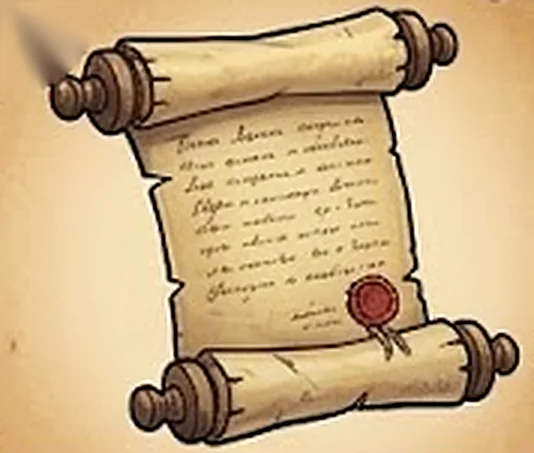
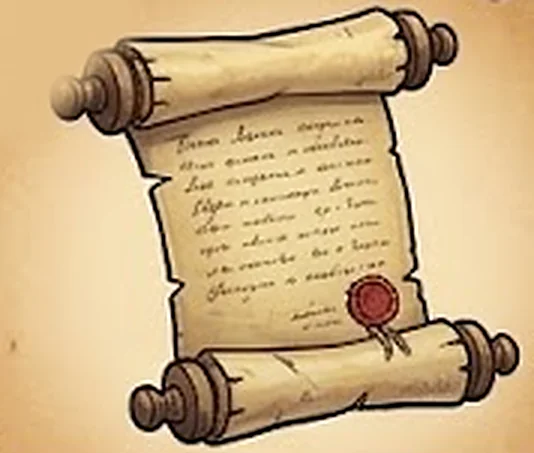
Add the secret token bonus (opens when all 30 finds are found) and clean the number badges off the item art
Claude-Session: https://claude.ai/code/session_01MECZjGJdFPh6sMPZ3fVR1g

Changed region(s): [[0.0, 0.0, 0.2697, 0.2781]]

diff --git a/src/game/finds.ts b/src/game/finds.ts
@@ -9,7 +9,7 @@
 
 export type FindKind = 'note' | 'book' | 'keepsake';
 export type PaperKind = 'leaf' | 'journal' | 'letter';
-export type KeepsakeIcon = 'key' | 'locket' | 'medal' | 'ribbon' | 'petal' | 'rattle' | 'teddy' | 'seeds' | 'stopwatch' | 'bell';
+export type KeepsakeIcon = 'key' | 'locket' | 'medal' | 'ribbon' | 'petal' | 'rattle' | 'teddy' | 'seeds' | 'stopwatch' | 'bell' | 'token';
 
 export interface FindPage {
   /** the words on the page */
@@ -282,6 +282,22 @@ export const FINDS: FindDef[] = [
 
 export const FIND_BY_ID: Record<string, FindDef> = Object.fromEntries(FINDS.map((f) => [f.id, f]));
 
+/** the reward for finding all of them: it is never hidden in a stage, it opens in the Library when every other find is there */
+export const BONUS_FIND: FindDef = {
+  id: 'bonus_token', world: 0, kind: 'keepsake', icon: 'token',
+  title: 'A secret token',
+  hint: 'Find every note, album and keepsake to open it.',
+  pages: [{ text: 'A small leather pouch tied with cord. Inside: one Heartbloom seed, and a folded note in the same hand as the petal.\n\n"To whoever was patient enough to find this. He will tell you he is not sorry. He is only afraid. Be slow with him. He has been fast for far too long."' }],
+};
+FIND_BY_ID[BONUS_FIND.id] = BONUS_FIND;
+
+const REAL_IDS = new Set(FINDS.map((f) => f.id));
+
+/** true once every note, album and keepsake in the stages has been found */
+export function allFound(found: string[]): boolean {
+  return FINDS.every((f) => found.includes(f.id));
+}
+
 /** the find that hides in this stage, if there is one */
 export function findForStage(world: number, mini: number): FindDef | null {
   for (const kind of Object.keys(FIND_STAGE) as FindKind[]) {
@@ -301,7 +317,7 @@ export function parseFinds(raw: string | null): string[] {
     const o = JSON.parse(raw);
     if (!o || typeof o !== 'object' || o.v !== 1 || !Array.isArray(o.found)) return [];
     const seen = new Set<string>();
-    for (const x of o.found) if (typeof x === 'string' && FIND_BY_ID[x]) seen.add(x);
+    for (const x of o.found) if (typeof x === 'string' && REAL_IDS.has(x)) seen.add(x);
     return [...seen];
   } catch {
     return [];
@@ -318,7 +334,7 @@ export function loadFinds(): string[] {
 
 /** the list with this find added (the same list when it was already there) */
 export function withFind(found: string[], id: string): string[] {
-  return found.includes(id) || !FIND_BY_ID[id] ? found : [...found, id];
+  return found.includes(id) || !REAL_IDS.has(id) ? found : [...found, id];
 }
 
 export function saveFinds(found: string[]) {

diff --git a/src/App.tsx b/src/App.tsx
@@ -20,7 +20,7 @@ import { sound } from './game/audio.ts';
 import { usePWAInstall } from './utils/usePWAInstall.ts';
 import { enterWideMode, leaveWideMode } from './game/wideMode.ts';
 import { FindReader } from './components/FindReader.tsx';
-import { FIND_BY_ID, loadFinds, saveFinds, withFind } from './game/finds.ts';
+import { FIND_BY_ID, allFound, loadFinds, saveFinds, withFind } from './game/finds.ts';
 import { THORNBARK_LEVEL, gateFound, hasThornHeart, markGateFound, markThornHeart, maxHearts } from './game/secret.ts';
 import { warmHeroAtlas } from './game/heroSprite.ts';
 import { BADGES, award, evaluate, type BadgeDef, type BadgeStore, type StageStats, recordStage } from './game/badges.ts';
@@ -174,10 +174,13 @@ export default function App() {
   // ---- story finds: the notes, books and keepsakes picked up, and the one being read ----
   const [foundIds, setFoundIds] = useState<string[]>(() => loadFinds());
   const [reading, setReading] = useState<string | null>(null);
+  /** the find on screen was the last of the 30 */
+  const [readingCompletes, setReadingCompletes] = useState(false);
   /** true while a stage is paused because a find was just picked up (so closing the reader resumes it) */
   const pausedForFind = useRef(false);
   const closeReader = () => {
     setReading(null);
+    setReadingCompletes(false);
     if (pausedForFind.current) {
       pausedForFind.current = false;
       engineRef.current?.resume();
@@ -423,6 +426,7 @@ export default function App() {
           setFoundIds(next);
           engineRef.current?.pause();
           pausedForFind.current = true;
+          setReadingCompletes(allFound(next));
           setReading(id);
         },
         onSecret: () => {
@@ -719,12 +723,12 @@ export default function App() {
           onChoice={changeCosmetic}
           initialTab={trophyTab}
           finds={foundIds}
-          onOpenFind={(id) => setReading(id)}
+          onOpenFind={(id) => { setReadingCompletes(false); setReading(id); }}
           onBack={() => setScreen(trophyFrom)}
         />
       )}
 
-      {reading && FIND_BY_ID[reading] && <FindReader find={FIND_BY_ID[reading]} onClose={closeReader} />}
+      {reading && FIND_BY_ID[reading] && <FindReader find={FIND_BY_ID[reading]} onClose={closeReader} completes={readingCompletes} />}
 
       {/* held back while the stage-cleared and new-skill cards are up: it covered their title ribbons and buttons */}
       {freshBadges.length > 0 && screen !== 'victory' && <BadgeToast badges={freshBadges} onDone={() => setFreshBadges([])} />}

diff --git a/src/components/FindReader.tsx b/src/components/FindReader.tsx
@@ -6,6 +6,8 @@ import { itemUrl } from '../game/items.ts';
 interface Props {
   find: FindDef;
   onClose: () => void;
+  /** this find was the last one: tell the player the bonus is waiting */
+  completes?: boolean;
 }
 
 /** the painted picture of a keepsake (see items.ts) */
@@ -23,7 +25,7 @@ const PaperText: React.FC<{ text?: string }> = ({ text }) => (
   </>
 );
 
-export const FindReader: React.FC<Props> = ({ find, onClose }) => {
+export const FindReader: React.FC<Props> = ({ find, onClose, completes }) => {
   const [page, setPage] = useState(0);
   const last = find.pages.length - 1;
   const pg = find.pages[Math.min(page, last)];
@@ -51,7 +53,7 @@ export const FindReader: React.FC<Props> = ({ find, onClose }) => {
   return (
     <div className="ui-scrim fr-scrim" role="dialog" aria-modal="true" aria-label={find.title} onClick={onClose}>
       <div className={`fr-card fr-${find.kind} ${find.kind === 'note' ? `fr-paper-${find.paper ?? 'leaf'}` : ''}`} onClick={(e) => e.stopPropagation()}>
-        <div className="fr-label">{label} · World {find.world}</div>
+        <div className="fr-label">{label} · {find.world > 0 ? `World ${find.world}` : 'Quest bonus'}</div>
         <h2 className="fr-title">{find.title}</h2>
 
         {find.kind === 'note' && (
@@ -101,7 +103,7 @@ export const FindReader: React.FC<Props> = ({ find, onClose }) => {
             Close
           </button>
         </div>
-        <div className="fr-saved">Saved to the Library in the Trophy Room</div>
+        <div className={`fr-saved${completes ? " done" : ""}`}>{completes ? "That is all 30! Something new is waiting in the Library." : "Saved to the Library in the Trophy Room"}</div>
       </div>
     </div>
   );

diff --git a/src/components/TrophyRoom.tsx b/src/components/TrophyRoom.tsx
@@ -6,7 +6,7 @@ import type { Coat } from '../game/heroTint.ts';
 import { BadgeMedal } from './BadgeMedal.tsx';
 import { CoatPreview } from './CoatPreview.tsx';
 import { CreaturePic } from './CreaturePic.tsx';
-import { FINDS, type FindDef } from '../game/finds.ts';
+import { BONUS_FIND, FINDS, allFound, type FindDef } from '../game/finds.ts';
 import { photoUrl } from '../game/photos.ts';
 import { itemUrl } from '../game/items.ts';
 
@@ -206,6 +206,25 @@ export const TrophyRoom: React.FC<Props> = ({ store, levels, gateFound, thornHea
                 </div>
               </React.Fragment>
             ))}
+            <div className="tr-sec">Quest bonus</div>
+            <div className="tr-grid tr-grid-j">
+              {(() => {
+                const open = allFound(finds);
+                return (
+                  <div
+                    className={`tr-card tr-find ${open ? 'open' : 'lock'}`}
+                    role={open ? 'button' : undefined}
+                    tabIndex={open ? 0 : undefined}
+                    onClick={open ? () => onOpenFind(BONUS_FIND.id) : undefined}
+                    onKeyDown={open ? (e) => { if (e.key === 'Enter' || e.key === ' ') { e.preventDefault(); onOpenFind(BONUS_FIND.id); } } : undefined}
+                  >
+                    <div className="tr-cpic">{open ? findPic(BONUS_FIND) : '🔒'}</div>
+                    <div className="tr-cn">{open ? BONUS_FIND.title : '???'}</div>
+                    <div className="tr-ct">{open ? 'Quest bonus' : BONUS_FIND.hint}</div>
+                  </div>
+                );
+              })()}
+            </div>
           </>
         )}
       </div>

diff --git a/src/game/finds.test.ts b/src/game/finds.test.ts
@@ -1,6 +1,6 @@
 import test from 'node:test';
 import assert from 'node:assert/strict';
-import { FINDS, FIND_BY_ID, FIND_STAGE, findForStage, parseFinds, withFind } from './finds.ts';
+import { BONUS_FIND, FINDS, FIND_BY_ID, FIND_STAGE, allFound, findForStage, parseFinds, withFind } from './finds.ts';
 import { generateAllLevels } from './worldsData.ts';
 import { generateStage, setLayoutVariant } from './stageGenerator.ts';
 import { validateStage } from './levelCheck.ts';
@@ -75,4 +75,16 @@ test('what has been found is read back safely', () => {
   assert.deepEqual(withFind(['w1_book'], 'w1_book'), ['w1_book']);
   assert.deepEqual(withFind([], 'nope'), []);
   assert.ok(FIND_BY_ID['w2_keepsake']);
+});
+
+test('the bonus token opens only when all 30 are found, and is never stored or hidden in a stage', () => {
+  assert.equal(FINDS.length, 30);
+  assert.equal(allFound([]), false);
+  assert.equal(allFound(FINDS.slice(1).map((f) => f.id)), false);
+  assert.equal(allFound(FINDS.map((f) => f.id)), true);
+  assert.equal(FIND_BY_ID[BONUS_FIND.id], BONUS_FIND, 'the reader can look it up');
+  assert.equal(FINDS.some((f) => f.id === BONUS_FIND.id), false, 'it is not one of the hidden finds');
+  assert.deepEqual(withFind([], BONUS_FIND.id), [], 'it is never added to the found list');
+  assert.deepEqual(parseFinds(JSON.stringify({ v: 1, found: [BONUS_FIND.id, 'w1_note'] })), ['w1_note']);
+  for (let w = 1; w <= 10; w++) for (let m = 1; m <= 10; m++) assert.notEqual(findForStage(w, m)?.id, BONUS_FIND.id);
 });

diff --git a/src/index.css b/src/index.css
@@ -671,3 +671,4 @@
 .tr-find .tr-cpic { height: 104px; }
 .tr-find .tr-item { object-fit: contain; background: #efd5a0; }
 @media (max-height: 480px) { .fr-item { width: 100px !important; height: 85px !important; } }
+@media (max-height: 480px) { .fr-saved.done { display: block; } }
